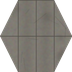
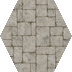
Tile variety and detail pass: asteroids, space, decks, settlements, forests, dirt clutter
Owner review of every add-on terrain for character-scale detail, an obvious
read of what each tile is, and variety. Codex-drawn replacements and variants:

- Asteroids redone (6 cratered, icy, ore-veined rock groups on space,
  clipped to the hex) and 6 starfield variants with faint nebula/galaxy wisps.
- Station deck (4), starship corridor floor (4), bulkhead (3), hangar (2),
  launch rail (2, Qsc now has its own art instead of the deck), duracrete
  road/plaza (3 each), bunker and throne floor (2 each), and a second variant
  of every location floor and wall, all with fine unit-scale plating/detail.
- Settlements: two more visibly distinct variants of each of the 8 types.
- Planet forests: 4 variants each (mature stands, one giant tree, young
  growth); the PROB=50 rules are replaced by the macros' @V variations.
- Dirt clutter: pebbles, rock, flat stones and stray weeds on about one dirt
  hex in five (visual only, terrain-graphics layer under transitions).

New generator: production/tools/gen_codex_tile_variety.py.

diff --git a/production/tools/gen_codex_tile_variety.py b/production/tools/gen_codex_tile_variety.py
@@ -1,0 +1,280 @@
+#!/usr/bin/env python3
+"""Tile variety and detail pass (owner review, 2026-10-04), drawn by Codex.
+
+Every add-on terrain was reviewed for character-scale detail, an obvious read
+of what it represents, and variety. This generates the replacements and
+extra variants. Wesnoth picks a random variant per hex from stem.png,
+stem2.png, ... (NEW:BASE up to 11, NEW:VILLAGE up to 7), so variants are just
+numbered files.
+
+Modes:
+  texture   seamless top-down texture, cut to the hex with the engine's mask
+  object    one object group on transparency, fitted like a village overlay
+  asteroid  asteroid group on transparency, composited onto a space tile
+
+Run only while no other Codex art generation is active.
+Usage: python3 production/tools/gen_codex_tile_variety.py [--only NAME ...] [--group GROUP]
+"""
+from __future__ import annotations
+
+import argparse
+import json
+import subprocess
+import sys
+from pathlib import Path
+
+ROOT = Path(__file__).resolve().parents[2]
+sys.path.insert(0, str(ROOT / "agent" / "coordinator"))
+import codex_art  # noqa: E402
+import ticket_runner  # noqa: E402
+
+OUT = ROOT / "addons/Star_Wars_Thrawn_Trilogy/images/terrain/sw"
+ALPHAMASK = Path.home() / "opt/wesnoth-1.19.27/data/core/images/terrain/alphamask.png"
+
+SCALE = ("Everything at a fine, small scale: this square is about two metres across and a soldier standing on "
+         "it is as tall as the square, so plates, tiles, grates, cracks and details must be small and numerous.")
+
+# (output file stem, mode, group, subject)
+TILES: list[tuple[str, str, str, str]] = []
+
+
+def add(stems, mode, group, subject_fn):
+    for i, stem in enumerate(stems, 1):
+        TILES.append((stem, mode, group, subject_fn(i)))
+
+
+SPACE = [
+    "deep space: a dense field of tiny stars of different brightness and faint colours on near-black",
+    "deep space: tiny stars on near-black with one faint, barely visible wisp of violet-blue nebula dust",
+    "deep space: sparse tiny stars on near-black with a distant faint spiral galaxy smudge",
+    "deep space: tiny stars on near-black with a thin faint band of reddish interstellar dust",
+    "deep space: a dense field of tiny white and pale-blue stars on near-black, no nebula",
+    "deep space: tiny stars on near-black with a soft faint teal glow of distant gas",
+]
+add(["space", "space2", "space3", "space4", "space5", "space6"], "texture", "space",
+    lambda i: SPACE[i - 1] + ". Low contrast and dark, so neighbouring squares blend; no planets, no ships")
+
+ASTEROIDS = [
+    "a group of three craggy gray-brown rock asteroids of different sizes with pitted cratered surfaces and "
+    "sharp shadows lit from one side",
+    "one large irregular dark asteroid with deep craters, fractured ridges and a few small rocks drifting near it",
+    "a cluster of many small jagged rocks and gravel-sized debris spread loosely, like a dense part of an "
+    "asteroid belt",
+    "two pale icy asteroids with frosted bluish-white crusts, cracks and a faint glitter of ice",
+    "a dark metallic-sheened asteroid with veins of ore catching the light, and two small companions",
+    "an elongated tumbling rock asteroid with a long shadowed groove and scattered pebbles of debris",
+]
+add(["asteroids", "asteroids2", "asteroids3", "asteroids4", "asteroids5", "asteroids6"], "asteroid", "asteroids",
+    lambda i: ASTEROIDS[i - 1])
+
+DECK = [
+    "the deck of a space station: small interlocking gray metal floor plates with fine rivets and seams, "
+    "a narrow strip of recessed blue guide lights",
+    "the deck of a space station: gray metal plating with a small square floor grate showing pipes beneath, "
+    "fine rivets",
+    "the deck of a space station: worn gray deck plates with a painted yellow-and-black hazard stripe along "
+    "one side and scuff marks",
+    "the deck of a space station: gray metal plates with a covered cable trench running across and two small "
+    "access hatches",
+]
+add(["deck", "deck2", "deck3", "deck4"], "texture", "metal", lambda i: DECK[i - 1])
+
+INTERIOR = [
+    "the corridor floor of a starship: dark gray riveted metal floor plates with a small ventilation grille",
+    "the corridor floor of a starship: dark metal plating with a diamond-tread non-slip panel and fine rivets",
+    "the corridor floor of a starship: dark metal floor with a small round maintenance hatch and seams",
+    "the corridor floor of a starship: dark riveted plates with a thin strip of glowing white floor lights",
+]
+add(["interior-deck", "interior-deck2", "interior-deck3", "interior-deck4"], "texture", "metal",
+    lambda i: INTERIOR[i - 1])
+
+BULKHEAD = [
+    "the top of a thick starship bulkhead wall: heavy dark gray armoured plates with bolted seams and a bundle "
+    "of pipes along it, clearly a solid wall",
+    "the top of a thick starship bulkhead wall: dark armoured plating with conduits, a warning stripe and a "
+    "small status light, clearly a solid wall",
+    "the top of a thick starship bulkhead wall: reinforced dark metal with structural ribs and cable runs, "
+    "clearly a solid wall",
+]
+add(["bulkhead", "bulkhead2", "bulkhead3"], "texture", "metal", lambda i: BULKHEAD[i - 1])
+
+add(["hangar", "hangar2"], "texture", "metal",
+    lambda i: ("a starship hangar bay floor: dark gray deck with painted white landing markings, tie-down "
+               "points and " + ("a yellow-and-black hazard border" if i == 1 else "faint scorch marks from engines")))
+add(["launch-rail", "launch-rail2"], "texture", "metal",
+    lambda i: ("a starfighter launch rail on a station deck: two parallel glowing magnetic rails with fine "
+               "metal ribs between them on dark plating" + ("" if i == 1 else ", with blinking guide lights")))
+
+ROAD = [
+    "a weathered duracrete road: pale gray concrete slabs with fine cracks, a few tiny weeds in the seams",
+    "a weathered duracrete road: pale gray concrete with a small round drain grate and stains",
+    "a weathered duracrete road: pale gray slabs with faded painted lane markings and scattered grit",
+]
+add(["duracrete-road", "duracrete-road2", "duracrete-road3"], "texture", "built", lambda i: ROAD[i - 1])
+PLAZA = [
+    "a colony plaza: small square pale duracrete paving tiles with fine joints and a few cracked tiles",
+    "a colony plaza: pale paving tiles with a small inset light and dirt in the joints",
+    "a colony plaza: pale paving with a utility access cover and a few dry leaves",
+]
+add(["duracrete-plaza", "duracrete-plaza2", "duracrete-plaza3"], "texture", "built", lambda i: PLAZA[i - 1])
+add(["bunker", "bunker2"], "texture", "built",
+    lambda i: ("the reinforced apron of a military bunker: heavy gray duracrete blocks with blast scoring, "
+               + ("bolted anchor plates" if i == 1 else "sandbag-coloured patches and a drainage channel")))
+add(["throne-floor", "throne-floor2"], "texture", "built",
+    lambda i: ("the floor of a dark imperial throne room: polished black stone tiles with thin silver inlay "
+               + ("lines" if i == 1 else "lines and a faint reflection")))
+
+# Extra variants of the location interiors.
+add(["floor-timber2"], "texture", "built", lambda i: "a frontier building's wooden plank floor: narrower dark planks with "
+    "nail heads, a worn rug corner and a few scratches")
+add(["floor-colony2"], "texture", "built", lambda i: "a colony building floor: light gray duracrete tiles with a small "
+    "floor drain and scuffs")
+add(["floor-palace2"], "texture", "built", lambda i: "a grand palace floor: polished cream marble with a fine dark red "
+    "border inlay")
+add(["floor-rock2"], "texture", "built", lambda i: "a tunnel floor cut into a mountain: smoothed dark stone with a "
+    "shallow drainage groove and grit")
+add(["wall-timber2"], "texture", "built", lambda i: "the top of a thick wall of dark logs with a crossbeam and iron "
+    "brackets, clearly a solid wall")
+add(["wall-colony2"], "texture", "built", lambda i: "the top of a thick duracrete wall with a metal cap and a small "
+    "conduit, clearly a solid wall")
+add(["wall-palace2"], "texture", "built", lambda i: "the top of a thick palace wall of carved pale stone with a "
+    "fluted moulding, clearly a solid wall")
+add(["wall-rock2"], "texture", "built", lambda i: "solid raw mountain rock with a vein of pale quartz and deep "
+    "cracks, clearly impassable")
+
+# Settlement variants: same kind of place per biome, each visibly distinct.
+VILLAGES = {
+    "dome": ["a single large weathered prefab dome habitat with an awning and a small vaporator",
+             "two prefab dome habitats joined by a short tube corridor with a satellite dish"],
+    "depot": ["an indoor supply depot: shelves of gray supply crates and a fuel cell rack",
+              "an indoor supply depot: a medical station with a bacta tank and stacked crates"],
+    "wookiee": ["a Wookiee dwelling of carved wood and woven branches high on a giant tree branch with a rope "
+                "bridge", "a cluster of two small round Wookiee huts of wood and leaves on a platform around a "
+                "huge trunk"],
+    "wayland": ["a single large round native hut with a steep thatched roof and drying racks",
+                "three small primitive huts of woven reeds around a fire pit"],
+    "dukha": ["a smaller Noghri dukha of rough gray stone with a dark timber roof and a carved doorpost",
+              "a Noghri dukha with a stone wall courtyard and a sloped dark roof"],
+    "farmstead": ["a colonist farmstead: a prefab barn with a moisture vaporator and a plowed plot",
+                  "a colonist farmstead: a small dome house, a water tank and a fenced pen"],
+    "outpost": ["a hunter's outpost: a log lean-to with a tarp roof and a rack of supplies",
+                "a hunter's outpost: a small prefab hut on stilts with a ladder and an antenna"],
+    "camp": ["an Imperial field camp: one large gray command tent with a holotable glow and a power generator",
+             "an Imperial field camp: a sensor tower, two crates and a gray shelter"],
+}
+for kind, subjects in VILLAGES.items():
+    add([f"village-{kind}2", f"village-{kind}3"], "object", "villages", lambda i, s=subjects: s[i - 1])
+
+TEXTURE_PROMPT = """Use your image generation tool to create exactly ONE original image: a seamless square texture of {subject}. Seen straight from above, filling the entire square edge to edge, with flat even lighting, no perspective and no vignette. {scale} Save it as tile.png in the current working directory. Do not create any other files.
+
+Style: {style}
+
+Rules:
+- Fully original artwork. Do not copy or closely imitate any existing illustration, film still, game asset or texture pack.
+- No text, letters, numbers, logos, insignia, emblems, symbols, watermarks or borders anywhere in the image.
+
+After saving, reply with only the file name."""
+
+OBJECT_PROMPT = """Use your image generation tool to create exactly ONE original image: {subject}. Seen from above at a three-quarter angle, like an object in a turn-based strategy game, the whole group centered with an empty margin on a TRANSPARENT background, with fine believable detail. No ground plane, no shadow outside the object, no people. Save it as tile.png in the current working directory. Do not create any other files.
+
+Style: {style}
+
+Rules:
+- Fully original artwork. Do not copy or closely imitate any existing illustration, film still, game asset or toy.
+- No text, letters, numbers, logos, insignia, emblems, symbols, watermarks or borders anywhere in the image.
+
+After saving, reply with only the file name."""
+
+FIT_TEXTURE = """
+from PIL import Image
+img = Image.open({src!r}).convert("RGBA")
+side = min(img.size)
+left, top = (img.width - side) // 2, (img.height - side) // 2
+img = img.crop((left, top, left + side, top + side)).resize((72, 72), Image.LANCZOS)
+mask = Image.open({mask!r}).convert("RGBA").getchannel("A").resize((72, 72))
+img.putalpha(mask)
+colors = img.convert("RGB").getcolors(72 * 72) or []
+if len(colors) < 6:
+    raise SystemExit("degenerate tile rejected: %d colours" % len(colors))
+img.save({dst!r}, optimize=True)
+"""
+
+FIT_OBJECT = """
+import sys
+sys.path.insert(0, {tools!r})
+from PIL import Image
+from derive_unit_frames import degenerate_reason, fit, remove_flat_background
+img = fit(remove_flat_background(Image.open({src!r})), 72, margin={margin}, anchor_bottom=False)
+reason = degenerate_reason(img)
+if reason:
+    raise SystemExit("degenerate tile rejected: " + reason)
+if {space!r}:
+    # Asteroids: composite the rocks onto a space tile so fields blend with
+    # the surrounding space.
+    base = Image.open({space!r}).convert("RGBA")
+    base.alpha_composite(img)
+    img = base
+    # A base terrain must stay inside the hex: clip rocks to the hex mask.
+    from PIL import ImageChops
+    mask = Image.open({mask!r}).convert("RGBA").getchannel("A").resize((72, 72))
+    img.putalpha(ImageChops.multiply(img.getchannel("A"), mask))
+img.save({dst!r}, optimize=True)
+"""
+
+
+def generate(stem: str, mode: str, subject: str, style: str) -> dict:
+    executable = ticket_runner.resolve_codex_executable()
+    environment = ticket_runner.require_codex_chatgpt_quota(executable or "")
+    workspace = codex_art._managed_directory(f"tile-{stem}")
+    target = workspace / "tile.png"
+    if mode == "texture":
+        prompt = TEXTURE_PROMPT.format(subject=subject, scale=SCALE, style=style)
+    else:
+        prompt = OBJECT_PROMPT.format(subject=subject, style=style)
+    ok, output = codex_art._codex_image(executable or "", environment, workspace, prompt, target,
+                                        subprocess.run, "gpt-6-luna")
+    if not ok:
+        if codex_art.QUOTA.search(output) and not codex_art.MODERATION.search(output):
+            return {"tile": stem, "state": "quota_paused"}
+        return {"tile": stem, "state": "failed", "reason": "no image produced"}
+    dst = str(OUT / f"{stem}.png")
+    if mode == "texture":
+        script = FIT_TEXTURE.format(src=str(target), mask=str(ALPHAMASK), dst=dst)
+    else:
+        space = ""
+        if mode == "asteroid":
+            n = stem.replace("asteroids", "") or "1"
+            candidate = OUT / (f"space{n}.png" if n != "1" else "space.png")
+            space = str(candidate if candidate.exists() else OUT / "space.png")
+        script = FIT_OBJECT.format(tools=str(ROOT / "production/tools"), src=str(target), dst=dst,
+                                   mask=str(ALPHAMASK),
+                                   margin=4 if mode == "asteroid" else 6, space=space)
+    done = subprocess.run([str(codex_art.art_python()), "-c", script], capture_output=True, text=True,
+                          timeout=300, check=False)
+    if done.returncode:
+        return {"tile": stem, "state": "failed", "reason": (done.stderr or done.stdout)[-300:]}
+    return {"tile": stem, "state": "generated"}
+
+
+def main() -> int:
+    parser = argparse.ArgumentParser(description=__doc__)
+    parser.add_argument("--only", action="append")
+    parser.add_argument("--group", action="append")
+    args = parser.parse_args()
+    style = codex_art.load_direction(ROOT).get("style", "")
+    results = []
+    for stem, mode, group, subject in TILES:
+        if args.only and stem not in args.only:
+            continue
+        if args.group and group not in args.group:
+            continue
+        outcome = generate(stem, mode, subject, style)
+        results.append(outcome)
+        print(json.dumps(outcome), flush=True)
+        if outcome["state"] == "quota_paused":
+            break
+    return 0 if all(item["state"] == "generated" for item in results) else 1
+
+
+if __name__ == "__main__":
+    raise SystemExit(main())

diff --git a/production/tools/gen_codex_interior_art.py b/production/tools/gen_codex_interior_art.py
@@ -54,6 +54,14 @@ TEXTURES = {
     "wall-rock": "solid raw mountain rock: jagged dark gray stone with deep cracks and shadows, seen straight "
                  "from above, clearly impassable",
 }
+# Small ground decorations scattered at random over dirt (no gameplay
+# effect): drawn small, centred in the hex.
+DECALS = {
+    "decal-pebbles": "a small scatter of six or seven gray and brown pebbles on bare ground, no ground drawn",
+    "decal-rock": "one fist-sized weathered gray rock with a patch of pale lichen, no ground drawn",
+    "decal-weed": "a single small stray tuft of wiry green weeds with two tiny pale flowers, no ground drawn",
+    "decal-stones": "three flat stones of different sizes half-sunk at odd angles, no ground drawn",
+}
 OBJECTS = {
     "cover-crates": "a waist-high stack of four or five battered cargo crates of mixed sizes, some metal, some "
                     "wooden, the kind of cover a soldier crouches behind",
@@ -109,9 +117,16 @@ img = fit(remove_flat_background(Image.open({src!r})), 72, margin=10, anchor_bot
 reason = degenerate_reason(img)
 if reason:
     raise SystemExit("degenerate interior art rejected: " + reason)
+if {margin}:
+    # Decals: checked at full size above, then shrunk into the middle of the
+    # hex so they read as small ground clutter.
+    small = img.resize((72 - 2 * {margin}, 72 - 2 * {margin}), Image.LANCZOS)
+    img = Image.new("RGBA", (72, 72))
+    img.alpha_composite(small, ({margin}, {margin}))
 img.save({dst!r}, optimize=True)
 """
 
+OBJECTS.update(DECALS)
 KINDS = {**TEXTURES, **OBJECTS}
 
 
@@ -128,8 +143,10 @@ def generate(kind: str, style: str) -> dict:
             return {"kind": kind, "state": "quota_paused"}
         return {"kind": kind, "state": "failed", "reason": "no image produced"}
     fit = FIT_TEXTURE if kind in TEXTURES else FIT_OBJECT
+    # Decals are shrunk to the middle 28 px; cover objects fill most of the hex.
+    margin = 22 if kind.startswith("decal-") else 0
     script = fit.format(tools=str(ROOT / "production/tools"), src=str(target), mask=str(ALPHAMASK),
-                        dst=str(OUT / f"{kind}.png"))
+                        dst=str(OUT / f"{kind}.png"), margin=margin)
     done = subprocess.run([str(codex_art.art_python()), "-c", script], capture_output=True, text=True,
                           timeout=300, check=False)
     if done.returncode:

diff --git a/production/tools/gen_codex_village_art.py b/production/tools/gen_codex_village_art.py
@@ -59,9 +59,33 @@ FORESTS = {
     "wayland": "the jungle of the planet Wayland: a tangle of thick tropical trees with huge leaves, hanging "
                "vines and dense undergrowth, steamy and overgrown",
 }
+# Variants 3 and 4: other tree types and sizes of the same biome, so a
+# forest is not one repeated clump.
+FOREST_VARIANTS = {
+    "wroshyr": {
+        3: "one colossal wroshyr tree of the planet Kashyyyk: a single enormous gray-brown trunk with huge root "
+           "buttresses and a broad flat crown of deep green leaves, a few hanging vines",
+        4: "a cluster of younger, thinner wroshyr saplings of the planet Kashyyyk with broad-leaved green "
+           "undergrowth and ferns around their feet, smaller and lower than a mature forest",
+    },
+    "myrkr": {
+        3: "one towering pale-barked tree of the planet Myrkr with a wide dark blue-green crown, and two small "
+           "saplings at its foot",
+        4: "a low dense thicket of young pale-barked Myrkr trees and dark blue-green ferns, shorter than a mature "
+           "forest",
+    },
+    "wayland": {
+        3: "one huge tropical tree of the jungle planet Wayland with wide buttress roots, a dense crown of large "
+           "leaves and long hanging vines",
+        4: "dense low jungle undergrowth of the planet Wayland: giant ferns, broad leaves, a fallen mossy log and "
+           "one young tree",
+    },
+}
 for _name, _subject in FORESTS.items():
     for _variant in (1, 2):
         KINDS[f"forest-{_name}-{_variant}"] = _subject + (", seen from a slightly different side" if _variant == 2 else "")
+    for _variant, _text in FOREST_VARIANTS[_name].items():
+        KINDS[f"forest-{_name}-{_variant}"] = _text
 
 PROMPT = """Use your image generation tool to create exactly ONE original image: {subject}. Seen from above at a three-quarter angle, like a building in a turn-based strategy game, the whole object centered with an empty margin on a TRANSPARENT background. A single object group only; no ground plane, no shadow outside the object, no people. Save it as village.png in the current working directory. Do not create any other files.
 
